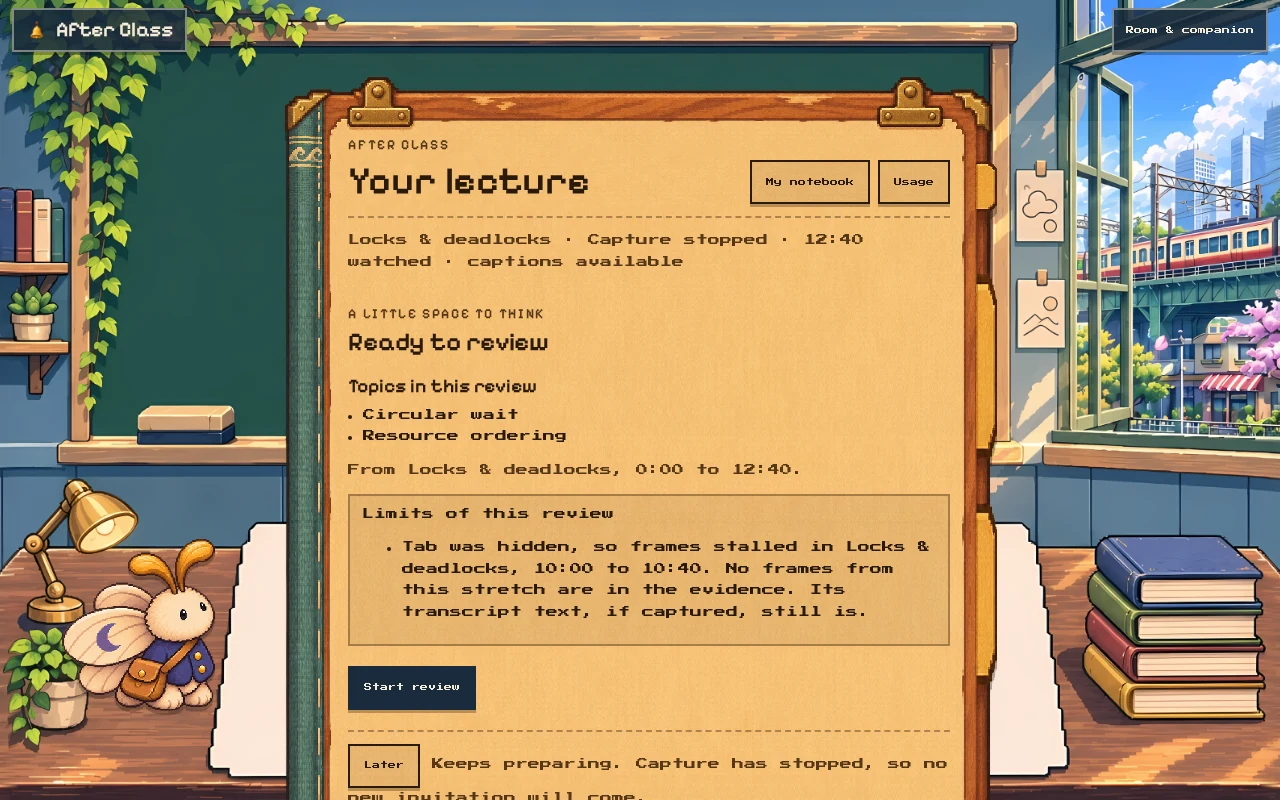
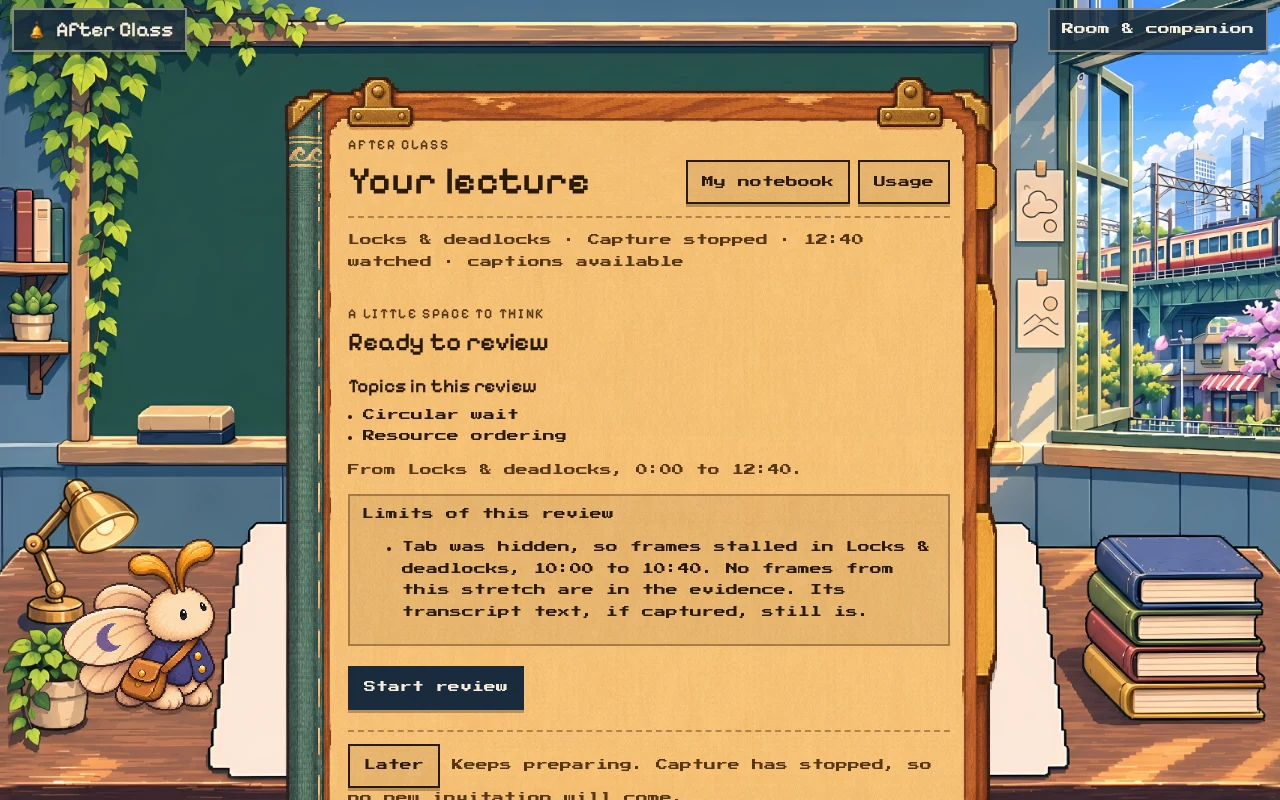
fix(app): set buttons and the answer box in 12 px
Everything a learner clicks is now 12 px in Press Start 2P, in the app and in the extension popup and options page. The answer box and its placeholder drop from 16 to 12 px so about four lines show at 1280x800. The More ways link now spans the hint columns so it no longer squeezes the buttons.

diff --git a/src/app/front-row.css b/src/app/front-row.css
@@ -35,7 +35,7 @@
 .scene-shell :is(.scene-masthead > a, .appearance-picker > summary, .scene-masthead > .sign-out) { display: flex; align-items: center; min-height: 44px; padding: 0 12px; background: var(--fr-chip); border: 2px solid var(--fr-chip-line); color: var(--fr-bar-ink); box-shadow: 0 3px 0 #00000040; }
 .scene-shell .scene-masthead > a { gap: 8px; font: 600 1.3rem/1 'After Class Pixel', var(--font); }
 .scene-shell .scene-masthead .bell-mark { width: 22px; height: 28px; }
-.scene-shell :is(.appearance-picker > summary, .scene-masthead > .sign-out) { font: 400 .5rem/1.8 var(--body); }
+.scene-shell :is(.appearance-picker > summary, .scene-masthead > .sign-out) { font: 400 .75rem/1.6 var(--body); }
 .scene-shell :is(.scene-masthead a, .appearance-picker > summary, .scene-masthead > .sign-out):focus-visible { outline: 3px solid var(--fr-bar-ink); outline-offset: 2px; }
 
 /* --fr-nav-reserve is measured by reserveNavSpace(); these values only cover the first paint. */
@@ -55,7 +55,7 @@
 .front-row .front-row-bar .review-navigation { display: flex; flex-wrap: wrap; justify-content: flex-end; align-items: center; gap: 8px; margin: 0; }
 .front-row .front-row-bar .review-phase { display: flex; align-items: center; min-height: 44px; padding: 0 10px; background: var(--fr-chip); border: 2px solid var(--fr-chip-line); color: inherit; font-size: .5rem; line-height: 1.8; }
 .front-row .front-row-bar .actions { margin: 0; gap: 8px; }
-.scene-shell .front-row .front-row-bar button { min-height: 44px; padding: 6px 12px; border: 2px solid var(--fr-chip-line); border-radius: 0; background: var(--fr-chip); color: var(--fr-bar-ink); font: 400 .5rem/1.8 var(--body); box-shadow: 0 3px 0 #00000040; }
+.scene-shell .front-row .front-row-bar button { min-height: 44px; padding: 6px 12px; border: 2px solid var(--fr-chip-line); border-radius: 0; background: var(--fr-chip); color: var(--fr-bar-ink); font: 400 .75rem/1.6 var(--body); box-shadow: 0 3px 0 #00000040; }
 .scene-shell .front-row .front-row-bar button:hover:not(:disabled) { background: var(--fr-bar); }
 .scene-shell .front-row .front-row-bar button[aria-expanded="true"]:not([data-action="end"]) { background: var(--fr-bar-ink); color: var(--fr-bar); }
 .scene-shell .front-row .front-row-bar :is(button, a):focus-visible { outline: 3px solid var(--fr-bar-ink); outline-offset: 2px; }
@@ -72,7 +72,7 @@
 .scene-shell .front-row .front-row-notices .note { margin: 0; border: 3px solid #2c2620; border-radius: 0; box-shadow: 4px 4px 0 #00000040; }
 /* A save that has not landed is a red-edged slip, never the notebook page a saved review is written on. */
 .scene-shell .front-row .front-row-notices .note-error { border-color: var(--danger); border-left-width: 12px; }
-.scene-shell .front-row .front-row-notices .note:not(.review-complete) button { min-height: 44px; margin: 4px 0 0; padding: 6px 14px; border: 2px solid var(--fg); border-radius: 0; background: var(--fr-bar); color: var(--fr-bar-ink); font: 400 .5rem/1.6 var(--body); box-shadow: 0 3px 0 #0000004d; }
+.scene-shell .front-row .front-row-notices .note:not(.review-complete) button { min-height: 44px; margin: 4px 0 0; padding: 6px 14px; border: 2px solid var(--fg); border-radius: 0; background: var(--fr-bar); color: var(--fr-bar-ink); font: 400 .75rem/1.6 var(--body); box-shadow: 0 3px 0 #0000004d; }
 .scene-shell .front-row .front-row-notices .note:not(.review-complete) button:focus-visible { outline: 3px solid var(--fg); outline-offset: 2px; }
 
 .front-row .front-row-layout { display: grid; grid-template-columns: minmax(0, 1fr); }
@@ -101,7 +101,7 @@
    and wraps, breaking a long word if it must, before it can reach the button. The left column holds an invisible copy of the
    button's text in the button's board font, padding and border, so both side columns reserve the same width. */
 .front-row-scene[data-board-align="center"] .front-row-heading { display: grid; grid-template-columns: minmax(max-content, 1fr) minmax(0, max-content) minmax(max-content, 1fr); align-items: center; min-height: 44px; }
-.front-row-scene[data-board-align="center"] .front-row-heading::before { content: "Show diagram"; grid-column: 1; grid-row: 1; visibility: hidden; white-space: nowrap; padding: 6px 12px; border: 2px solid transparent; font: 400 .5rem/1.6 var(--body); }
+.front-row-scene[data-board-align="center"] .front-row-heading::before { content: "Show diagram"; grid-column: 1; grid-row: 1; visibility: hidden; white-space: nowrap; padding: 6px 12px; border: 2px solid transparent; font: 400 .75rem/1.6 var(--body); }
 .front-row-scene[data-board-align="center"] .front-row-heading .front-row-eyebrow { grid-column: 2; grid-row: 1; min-width: 0; overflow-wrap: anywhere; text-align: center; }
 .front-row-scene[data-board-align="center"] .front-row-heading .show-diagram { grid-column: 3; grid-row: 1; justify-self: end; }
 /* A board too narrow for the label between two button-wide columns puts the label on its own centred line and Show diagram under it.
@@ -132,7 +132,7 @@
 /* A note under the tutor's line (a held or failed turn) reads at note size, not at the size of the question it sits with. */
 .scene-shell .front-row-scene .current-exchange .lines .line p.note { margin: .8em 0 0; font: 400 1rem/1.7 var(--body); }
 .front-row-scene :is(.front-row-area[data-area="board"], .setup-choices) .note-error { color: var(--fr-board-ink); border-left-width: 10px; }
-.front-row-scene :is(.front-row-area[data-area="board"], .setup-choices) :is(button, .citation) { min-height: 40px; padding: 6px 12px; border: 2px solid var(--fr-board-ink-soft); border-radius: 0; background: transparent; color: var(--fr-board-ink); font: 400 .5rem/1.6 var(--body); text-decoration: none; }
+.front-row-scene :is(.front-row-area[data-area="board"], .setup-choices) :is(button, .citation) { min-height: 40px; padding: 6px 12px; border: 2px solid var(--fr-board-ink-soft); border-radius: 0; background: transparent; color: var(--fr-board-ink); font: 400 .75rem/1.6 var(--body); text-decoration: none; }
 .front-row-scene :is(.front-row-area[data-area="board"], .setup-choices) .citation::before { filter: var(--fr-board-icon-filter, none); }
 .front-row-scene[data-board-tone="dark"] { --fr-board-icon-filter: invert(1); }
 
@@ -153,15 +153,15 @@
 
 /* Your thinking. */
 .front-row-scene .composer { display: grid; gap: 8px 12px; margin: 0; padding: 0; border: 0; }
-.front-row-scene[data-mat-actions="below"] .composer { grid-template-columns: auto minmax(0, 1fr) auto; grid-template-areas: "status status status" "label label more" "field field field" "share assist speak" "short short short"; }
-.front-row-scene[data-mat-actions="beside"] .composer { grid-template-columns: auto minmax(0, 1fr) minmax(13rem, 36%); grid-template-areas: "status status status" "label label more" "field field share" "field field assist" "speak speak speak" "short short short"; }
+.front-row-scene[data-mat-actions="below"] .composer { grid-template-columns: auto minmax(0, 1fr) auto; grid-template-areas: "status status status" "label more more" "field field field" "share assist speak" "short short short"; }
+.front-row-scene[data-mat-actions="beside"] .composer { grid-template-columns: auto minmax(0, 1fr) minmax(13rem, 36%); grid-template-areas: "status status status" "label more more" "field field share" "field field assist" "speak speak speak" "short short short"; }
 .front-row-scene .composer > .actions:not(.primary-actions):empty { display: none; }
 .front-row-scene .composer-status { grid-area: status; display: grid; gap: 6px; }
 .front-row-scene .composer-status:empty { display: none; }
 .front-row-scene .composer-status .note { margin: 0; padding: 6px 10px; border: 2px solid currentColor; border-radius: 0; font-size: 1rem; }
 .front-row-scene .composer-status .note-error { border-left-width: 10px; }
 .scene-shell .front-row-scene .composer > label { grid-area: label; display: block; margin: 0; color: var(--fr-mat-ink); font: 400 1rem/1.7 var(--body); }
-.scene-shell .front-row-scene :is(.composer, .setup-start) textarea { grid-area: field; width: 100%; height: clamp(4.6rem, 7.6cqw, 7.5rem); min-height: 4.6rem; margin: 0; padding: 10px 14px; resize: none; border: 3px solid var(--fr-field-border); border-radius: 0; background: var(--fr-field); color: var(--fr-field-ink); caret-color: var(--fr-field-ink); box-shadow: inset 3px 3px 0 #0000001a; font: 400 1rem/1.7 var(--body); }
+.scene-shell .front-row-scene :is(.composer, .setup-start) textarea { grid-area: field; width: 100%; height: clamp(4.6rem, 7.6cqw, 7.5rem); min-height: 4.6rem; margin: 0; padding: 10px 14px; resize: none; border: 3px solid var(--fr-field-border); border-radius: 0; background: var(--fr-field); color: var(--fr-field-ink); caret-color: var(--fr-field-ink); box-shadow: inset 3px 3px 0 #0000001a; font: 400 .75rem/1.7 var(--body); }
 .scene-shell .front-row-scene :is(.composer, .setup-start) textarea::placeholder { color: color-mix(in srgb, var(--fr-field-ink) 70%, var(--fr-field)); opacity: 1; }
 .scene-shell .front-row-scene :is(.composer, .setup-start) textarea:focus-visible { outline: 3px solid var(--fr-focus); outline-offset: 3px; }
 .front-row-scene .composer > .actions:not(.primary-actions) { grid-area: speak; justify-self: end; margin: 0; }
@@ -173,10 +173,10 @@
 .front-row-scene[data-mat-actions="beside"] .composer .assist-actions > * { flex: 1 1 0; }
 .front-row-scene .composer-shortcut { grid-area: short; align-self: center; justify-self: start; margin: 0; color: var(--fr-mat-ink-soft); font: 400 .5rem/1.8 var(--body); }
 .front-row-scene .composer .review-help { grid-area: more; justify-self: end; margin: 0; border: 0; }
-.scene-shell .front-row-scene .composer .review-help summary { min-height: 32px; padding: 4px 0; color: var(--fr-mat-ink-soft); font: 400 .5rem/1.8 var(--body); font-style: normal; text-decoration: underline; }
+.scene-shell .front-row-scene .composer .review-help summary { min-height: 32px; padding: 4px 0; color: var(--fr-mat-ink-soft); font: 400 .75rem/1.6 var(--body); font-style: normal; text-decoration: underline; }
 .front-row-scene .composer .review-help[open] .actions { justify-content: flex-end; margin: 6px 0 0; }
-.scene-shell .front-row-scene :is(.composer, .setup-start) button { min-height: 44px; padding: 8px 16px; border: 3px solid var(--fr-mat-ink); border-radius: 0; background: var(--fr-quiet); color: var(--fr-quiet-ink); font: 400 .5rem/1.6 var(--body); box-shadow: inset -3px -3px 0 #00000026, 0 3px 0 #00000059; }
-.scene-shell .front-row-scene :is(.composer, .setup-start) .primary-action { padding-inline: 22px; background: var(--fr-accent); color: var(--fr-accent-ink); border-color: color-mix(in srgb, var(--fr-accent) 55%, #000); font-size: .5rem; }
+.scene-shell .front-row-scene :is(.composer, .setup-start) button { min-height: 44px; padding: 8px 16px; border: 3px solid var(--fr-mat-ink); border-radius: 0; background: var(--fr-quiet); color: var(--fr-quiet-ink); font: 400 .75rem/1.6 var(--body); box-shadow: inset -3px -3px 0 #00000026, 0 3px 0 #00000059; }
+.scene-shell .front-row-scene :is(.composer, .setup-start) .primary-action { padding-inline: 22px; background: var(--fr-accent); color: var(--fr-accent-ink); border-color: color-mix(in srgb, var(--fr-accent) 55%, #000); font-size: .75rem; }
 .scene-shell .front-row-scene :is(.composer, .setup-start) button:not(:disabled):active { translate: 0 2px; box-shadow: inset 2px 2px 0 #00000033, 0 1px 0 #00000059; }
 .scene-shell .front-row-scene :is(.composer, .setup-start) button:disabled { opacity: .55; }
 .scene-shell .front-row-scene .composer .turn-status { background: var(--fr-field); color: var(--fr-field-ink); border: 2px solid var(--fr-field-border); }
@@ -197,7 +197,7 @@
 .front-row-object .front-row-object-art { position: absolute; inset: 0; background: var(--fr-object-art) 50% 100% / contain no-repeat; filter: drop-shadow(0 4px 0 #00000052); transition: translate 120ms ease-out, filter 120ms ease-out; }
 .front-row-object[data-object="source"] { --fr-object-art: url('./assets/front-row-v2/closed-folio.webp'); }
 .front-row-object[data-object="history"] { --fr-object-art: url('./assets/front-row-v2/closed-notebook.webp'); }
-.front-row-object .front-row-object-tag { position: relative; padding: 3px 8px; background: var(--fr-bar); color: var(--fr-bar-ink); border: 2px solid var(--fr-bar-ink); font: 400 .5rem/1.8 var(--body); white-space: nowrap; }
+.front-row-object .front-row-object-tag { position: relative; padding: 3px 8px; background: var(--fr-bar); color: var(--fr-bar-ink); border: 2px solid var(--fr-bar-ink); font: 400 .75rem/1.6 var(--body); white-space: nowrap; }
 .front-row-object:is(:hover, :focus-visible) .front-row-object-art { translate: 0 -4px; filter: drop-shadow(0 8px 0 #00000052) brightness(1.08); }
 .front-row-object:is(:hover, :focus-visible) .front-row-object-tag { background: var(--fr-bar-ink); color: var(--fr-bar); }
 .scene-shell .front-row-scene .front-row-object:focus-visible { outline: 3px solid var(--fr-bar-ink); outline-offset: 2px; }
@@ -262,7 +262,7 @@
 .scene-shell .review .room-notebook-dialog .notebook-views button[aria-pressed="true"] { border-color: var(--fr-bar); background: var(--fr-bar); color: var(--fr-bar-ink); box-shadow: inset 0 0 0 2px var(--fr-bar-ink); }
 
 /* Controls are drawn in the page's ink. Close and Back to the question wear the room's own navigation colour. */
-.scene-shell .review .room-object button { min-height: 44px; margin: 0; padding: 6px 14px; border: 2px solid var(--obj-ink); border-radius: 0; background: color-mix(in srgb, var(--obj-ink) 7%, transparent); color: var(--obj-ink); font: 400 .5rem/1.6 var(--body); text-align: left; text-decoration: none; box-shadow: 0 3px 0 color-mix(in srgb, var(--obj-ink) 30%, transparent); }
+.scene-shell .review .room-object button { min-height: 44px; margin: 0; padding: 6px 14px; border: 2px solid var(--obj-ink); border-radius: 0; background: color-mix(in srgb, var(--obj-ink) 7%, transparent); color: var(--obj-ink); font: 400 .75rem/1.6 var(--body); text-align: left; text-decoration: none; box-shadow: 0 3px 0 color-mix(in srgb, var(--obj-ink) 30%, transparent); }
 .scene-shell .review .room-object button:hover:not(:disabled) { background: color-mix(in srgb, var(--obj-ink) 16%, transparent); }
 .scene-shell .review .room-object :is(.room-object-tools > button:last-child, .source-return) { background: var(--fr-bar); border-color: var(--fr-bar); color: var(--fr-bar-ink); }
 .scene-shell .review .room-object :is(.room-object-tools > button:last-child, .source-return):hover { background: var(--obj-ink); }
@@ -290,7 +290,7 @@
 .scene-shell .review .room-object .diagram-lines li { font: 400 1rem/1.7 var(--body); }
 .scene-shell .review .room-object .tutor-diagram:focus-visible { outline: 3px dashed var(--obj-ink); outline-offset: 4px; }
 .scene-shell .review .room-object details { margin: 14px 0 0; padding: 0; border: 0; border-top: 2px dashed var(--border); }
-.scene-shell .review .room-object summary { padding: 10px 0; color: var(--obj-ink); font: 400 .5rem/1.8 var(--body); }
+.scene-shell .review .room-object summary { padding: 10px 0; color: var(--obj-ink); font: 400 .75rem/1.6 var(--body); }
 .scene-shell .review .room-object :is(.review-topics, .review-observations) ul { display: grid; gap: 8px; margin: 0; padding: 0; list-style: none; }
 .scene-shell .review .room-object .review-topics li { display: flex; flex-wrap: wrap; align-items: center; justify-content: space-between; gap: 8px; }
 .scene-shell .review .room-object .scope-source-list { display: flex; flex-direction: column; align-items: flex-start; gap: 8px; margin: 10px 0; }
@@ -337,9 +337,9 @@
   /* Your thinking: the label 26, the field 20 and the buttons 21 plate pixels. */
   .scene-shell .front-row-scene .composer > label { font-size: 1rem; }
   .scene-shell .front-row-scene .composer { gap: calc(var(--fr-s) * 10) calc(var(--fr-s) * 14); }
-  .scene-shell .front-row-scene .composer textarea { padding: calc(var(--fr-s) * 10) calc(var(--fr-s) * 14); font-size: 1rem; line-height: 1.7; }
-  .scene-shell .front-row-scene .composer button { padding: calc(var(--fr-s) * 8) calc(var(--fr-s) * 20); font-size: .5rem; }
-  .scene-shell .front-row-scene .composer .primary-action { font-size: .5rem; }
+  .scene-shell .front-row-scene .composer textarea { padding: calc(var(--fr-s) * 4) calc(var(--fr-s) * 14); font-size: .75rem; line-height: 1.7; }
+  .scene-shell .front-row-scene .composer button { padding: calc(var(--fr-s) * 8) calc(var(--fr-s) * 20); font-size: .75rem; }
+  .scene-shell .front-row-scene .composer .primary-action { font-size: .75rem; }
   .front-row-scene[data-board-align="center"] .front-row-area[data-area="board"] { display: flex; flex-direction: column; justify-content: safe center; }
   /* The field takes the height the mat has left once the label and buttons are placed. */
   .front-row-scene .front-row-area[data-area="desk"] > .composer { height: 100%; }
@@ -357,7 +357,7 @@
   .scene-shell .front-row-scene .front-row-object { min-height: 0; padding: 0; }
   .scene-shell .front-row-scene .front-row-object[data-object="source"] { z-index: 9; }
   .front-row-scene .front-row-object .front-row-object-art { display: none; }
-  .front-row-scene .front-row-object .front-row-object-tag { padding: calc(var(--fr-s) * 4) calc(var(--fr-s) * 8); font-size: .5rem; }
+  .front-row-scene .front-row-object .front-row-object-tag { padding: calc(var(--fr-s) * 4) calc(var(--fr-s) * 8); font-size: .75rem; }
   .front-row-scene .room-progress { position: absolute; z-index: 9; top: calc(var(--fr-nav-reserve) + 4px); right: 12px; width: min(22rem, calc(100% - 24px)); max-height: calc(100% - var(--fr-nav-reserve) - 16px); }
 }
 
@@ -380,13 +380,13 @@
   .scene-shell .scene-masthead:has(> .sign-out) { flex-wrap: wrap; row-gap: 6px; }
   .scene-shell :is(.scene-masthead > a, .appearance-picker > summary, .scene-masthead > .sign-out) { padding: 0 10px; }
   .scene-shell .scene-masthead > a { font-size: 1.15rem; }
-  .scene-shell :is(.appearance-picker > summary, .scene-masthead > .sign-out) { font-size: .5rem; }
+  .scene-shell :is(.appearance-picker > summary, .scene-masthead > .sign-out) { font-size: .75rem; }
   .scene-shell .front-row .front-row-bar { padding: 0 8px; gap: 6px; }
   .front-row .front-row-title { flex: 1 1 100%; }
   .front-row .front-row-bar .review-navigation { justify-content: flex-start; gap: 6px; }
   .front-row .front-row-bar .bar-menu { margin-left: 0; }
   .front-row .front-row-bar .bar-menu-panel { left: 0; right: auto; max-width: calc(100vw - 16px); }
-  .scene-shell .front-row .front-row-bar button { padding: 6px 10px; font-size: .5rem; }
+  .scene-shell .front-row .front-row-bar button { padding: 6px 10px; font-size: .75rem; }
   .scene-shell .front-row .front-row-notices { margin: 8px 8px 0; }
   .front-row-scene { display: grid; grid-template-columns: minmax(0, 1fr) auto auto; grid-template-areas: "board board board" "desk desk desk" "buddy source history" "progress progress progress"; gap: 8px; padding: 8px 8px 0; }
   .front-row-scene .room-progress { grid-area: progress; margin-bottom: 8px; }
@@ -398,7 +398,7 @@
   .scene-shell .front-row-scene .current-exchange .line p { font-size: 1rem; }
   .front-row-scene .composer, .front-row-scene[data-mat-actions] .composer { grid-template-columns: minmax(0, 1fr); grid-template-areas: "status" "label" "field" "share" "assist" "more" "speak" "short"; }
   .front-row-scene .composer .review-help { justify-self: start; }
-  .scene-shell .front-row-scene :is(.composer, .setup-start) textarea { height: 7.5rem; min-height: 7.5rem; font-size: 1rem; }
+  .scene-shell .front-row-scene :is(.composer, .setup-start) textarea { height: 7.5rem; min-height: 7.5rem; font-size: .75rem; }
   .front-row-scene .composer .primary-actions > * { flex: 1 1 100%; }
   .front-row-scene .composer .assist-actions > * { flex: 1 1 0; }
   .front-row-scene .composer > .actions:not(.primary-actions) { justify-self: start; }
@@ -413,7 +413,7 @@
   .front-row-scene .front-row-object[data-object="source"] { grid-area: source; }
   .front-row-scene .front-row-object[data-object="history"] { grid-area: history; }
   .front-row-object .front-row-object-art { bottom: 22px; }
-  .front-row-object .front-row-object-tag { padding: 1px 6px; font-size: .5rem; }
+  .front-row-object .front-row-object-tag { padding: 1px 6px; font-size: .75rem; }
   /* The object takes most of a phone's width and height with a margin of room around it. Its frame is drawn at a fixed
      scale, so the page keeps nearly all the width and the text keeps its size. */
   .scene-shell .review .room-object { --u: .22px; width: calc(100vw - 20px); height: calc(100dvh - 28px); max-width: calc((100dvh - 28px) * 1.6); }

diff --git a/src/app/completion.css b/src/app/completion.css
@@ -32,7 +32,7 @@
 .front-row .front-row-notices .review-complete .muted { color: var(--obj-ink-soft); }
 .front-row .front-row-notices :is(.review-complete-group, .review-complete-next) { margin: 14px 0 0; padding: 10px 0 0; border-top: 2px dashed var(--border); }
 .front-row .front-row-notices .review-complete h3 { margin: 0 0 8px; color: var(--obj-ink-soft); font: 600 .9rem/1.3 var(--pixel); letter-spacing: .12em; text-transform: uppercase; }
-.front-row .front-row-notices .review-complete summary { min-height: 44px; display: flex; align-items: center; margin: 0; color: var(--obj-ink-soft); font: 400 .5rem/1.8 var(--body); text-transform: uppercase; cursor: pointer; }
+.front-row .front-row-notices .review-complete summary { min-height: 44px; display: flex; align-items: center; margin: 0; color: var(--obj-ink-soft); font: 400 .75rem/1.6 var(--body); text-transform: uppercase; cursor: pointer; }
 .front-row .front-row-notices .review-complete summary:focus-visible { outline: 3px solid var(--obj-ink); outline-offset: 2px; }
 .front-row .front-row-notices .review-complete details[open] > summary { margin-bottom: 8px; }
 .front-row .front-row-notices .review-complete ul { display: grid; gap: 10px; margin: 0; padding: 0; list-style: none; }
@@ -43,7 +43,7 @@
 .front-row .front-row-notices .review-complete .citation { display: flex; align-items: center; width: fit-content; max-width: 100%; min-height: 44px; margin: 2px 0 0; padding: 4px 0; border: 0; border-radius: 0; background: none; box-shadow: none; color: var(--obj-link); font: 400 .5rem/1.8 var(--body); text-align: left; text-decoration: underline; text-underline-offset: 3px; }
 .front-row .front-row-notices .review-complete .citation:focus-visible { outline: 3px solid var(--obj-ink); outline-offset: 2px; }
 .front-row .front-row-notices .review-complete .actions { margin: 12px 0 0; }
-.front-row .front-row-notices .review-complete .actions a { display: inline-flex; align-items: center; min-height: 44px; padding: 6px 16px; border: 2px solid var(--fr-bar); background: var(--fr-bar); color: var(--fr-bar-ink); font: 400 .5rem/1.6 var(--body); text-decoration: none; box-shadow: 0 3px 0 color-mix(in srgb, var(--obj-ink) 30%, transparent); }
+.front-row .front-row-notices .review-complete .actions a { display: inline-flex; align-items: center; min-height: 44px; padding: 6px 16px; border: 2px solid var(--fr-bar); background: var(--fr-bar); color: var(--fr-bar-ink); font: 400 .75rem/1.6 var(--body); text-decoration: none; box-shadow: 0 3px 0 color-mix(in srgb, var(--obj-ink) 30%, transparent); }
 .front-row .front-row-notices .review-complete .actions a:hover { border-color: var(--obj-ink); background: var(--obj-ink); }
 .front-row .front-row-notices .review-complete .actions a:focus-visible { outline: 3px solid var(--obj-ink); outline-offset: 3px; }
 

diff --git a/src/app/pages.css b/src/app/pages.css
@@ -41,7 +41,7 @@
 .page-loading { color: var(--muted); padding-block: 12px; }
 
 /* Controls are square and drawn in the page's ink; the one main action wears the room's navigation colour. */
-.notebook-page :is(button, select), .notebook-page .page-heading nav a, .home-primary a { display: inline-flex; align-items: center; gap: 6px; min-height: 44px; margin: 0; padding: 6px 14px; border: 2px solid var(--fg); border-radius: 0; background: var(--note-bg); color: var(--fg); font: 400 .5rem/1.6 var(--body); text-align: left; text-decoration: none; box-shadow: 0 3px 0 color-mix(in srgb, var(--fg) 30%, transparent); cursor: pointer; }
+.notebook-page :is(button, select), .notebook-page .page-heading nav a, .home-primary a { display: inline-flex; align-items: center; gap: 6px; min-height: 44px; margin: 0; padding: 6px 14px; border: 2px solid var(--fg); border-radius: 0; background: var(--note-bg); color: var(--fg); font: 400 .75rem/1.6 var(--body); text-align: left; text-decoration: none; box-shadow: 0 3px 0 color-mix(in srgb, var(--fg) 30%, transparent); cursor: pointer; }
 .notebook-page button:hover:not(:disabled), .notebook-page .page-heading nav a:hover { background: color-mix(in srgb, var(--fg) 16%, transparent); }
 .notebook-page button:not(:disabled):active { translate: 0 2px; box-shadow: 0 1px 0 color-mix(in srgb, var(--fg) 30%, transparent); }
 .notebook-page button:disabled { opacity: .55; cursor: not-allowed; }

diff --git a/src/app/scene.css b/src/app/scene.css
@@ -24,7 +24,7 @@
 .appearance-options fieldset { min-width: 0; border: 0; padding: 0; margin: 16px 0; }
 .appearance-options legend { padding: 0 0 8px; color: var(--paper-ink-soft); font: 400 .5rem/1.8 var(--body); text-transform: uppercase; }
 .room-choices, .companion-choices { display: grid; grid-template-columns: repeat(3,minmax(0,1fr)); gap: 10px; }
-.appearance-options button { display: flex; flex-direction: column; align-items: center; gap: 6px; min-height: 44px; padding: 8px; border: 2px solid var(--paper-ink); border-radius: 0; background: #f4e6c8; color: var(--paper-ink); font: 400 .5rem/1.6 var(--body); text-align: center; box-shadow: 0 3px 0 #2a1a0b40; }
+.appearance-options button { display: flex; flex-direction: column; align-items: center; gap: 6px; min-height: 44px; padding: 8px; border: 2px solid var(--paper-ink); border-radius: 0; background: #f4e6c8; color: var(--paper-ink); font: 400 .75rem/1.6 var(--body); text-align: center; box-shadow: 0 3px 0 #2a1a0b40; }
 .appearance-options button:hover { background: #ead6ad; }
 .appearance-options button[aria-pressed="true"] { border-color: var(--fr-bar); background: var(--fr-bar); color: var(--fr-bar-ink); box-shadow: inset 0 0 0 2px var(--fr-bar-ink), 0 3px 0 #00000059; }
 .appearance-options small { color: var(--paper-ink-soft); font: 400 .78rem/1.35 var(--font); }

diff --git a/src/extension/popup/stationery.css b/src/extension/popup/stationery.css
@@ -19,7 +19,7 @@ a { color: var(--link); text-underline-offset: 3px; }
 code { font-family: var(--mono); font-size: 13px; }
 :focus-visible { outline: 3px solid var(--focus); outline-offset: 2px; }
 
-button { min-height: 44px; padding: 6px 14px; border: 2px solid var(--ink); border-radius: 0; background: var(--paper-deep); color: var(--ink); font: 400 8px/1.6 var(--body); box-shadow: 0 3px 0 #2a1a0b4d; cursor: pointer; }
+button { min-height: 44px; padding: 6px 14px; border: 2px solid var(--ink); border-radius: 0; background: var(--paper-deep); color: var(--ink); font: 400 12px/1.6 var(--body); box-shadow: 0 3px 0 #2a1a0b4d; cursor: pointer; }
 button:hover:not(:disabled) { background: #e6d1a6; }
 button:active:not(:disabled) { translate: 0 2px; box-shadow: 0 1px 0 #2a1a0b4d; }
 button.primary { border-color: var(--bar); background: var(--bar); color: var(--bar-ink); }

diff --git a/src/app/review.css b/src/app/review.css
@@ -13,7 +13,7 @@
 .review .tutor-diagram:focus-visible { outline: 3px solid var(--accent); outline-offset: 3px; }
 .review .review-help summary { font-style: italic; }
 .source-heading button { margin: 4px 8px 4px 0; }
-.review .notebook-heading button { font-size: .5rem; }
+.review .notebook-heading button { font-size: .75rem; }
 /* The starting point is a compact setup form, shown in place of the conversation until the first turn. */
 .review .topic-checklist { display: grid; gap: 10px; max-width: 44rem; }
 .review .topic-checklist h2 { margin: 0; font-size: 1.35rem; }
